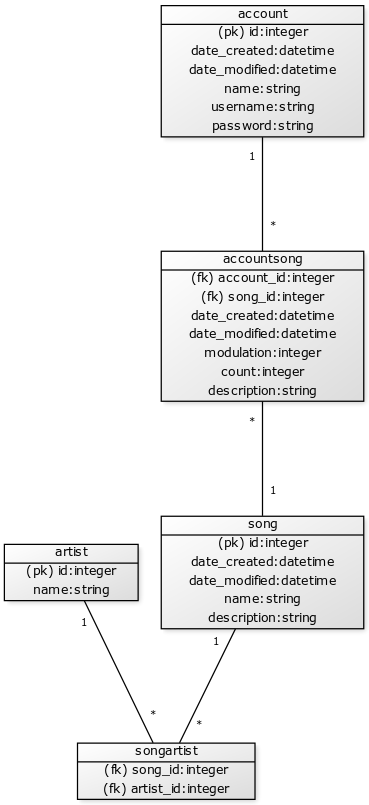
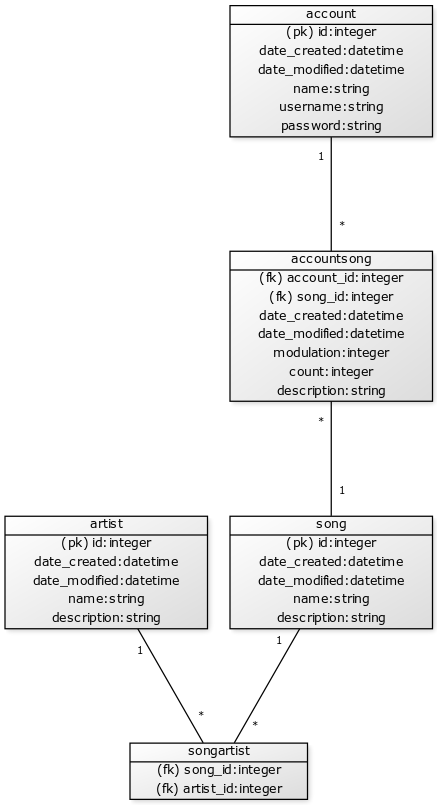
artist taulun lisäys tietokantaan, laulun lisäykseen mukaan artistin lisäys ja liittäminen

diff --git a/application/templates/songs/change.html b/application/templates/songs/change.html
@@ -4,13 +4,13 @@
 <form method="POST" action="{{ url_for('change_form', song_id=song.id) }}">
   <table>
       <tr>
-          <td>
-            {{ song.name }}
-          </td>
-          <td>
-            {{ song.description }}
-          </td>
-              </tr>
+        <td>
+          {{ song.name }}
+        </td>
+        <td>
+          {{ song.description }}
+        </td>
+      </tr>
       <tr>
 	      <td>
 	        {{ form.name.label }}
@@ -20,13 +20,21 @@
 	      </td>
       </tr>
       <tr>
-          <td>
-            {{ form.description.label}}
-          </td>
-          <td>
-            {{ form.description }}
-          </td>
-              </tr>
+        <td>
+          {{ form.description.label}}
+        </td>
+        <td>
+          {{ form.description }}
+        </td>
+      </tr>
+      <tr>
+        <td>
+          {{ form.artist.label}}
+        </td>
+        <td>
+          {{ form.artist }}
+        </td>
+      </tr>
       <tr>
 	      <td colspan="2">   
             <input type="submit" value="Save changes"/>

diff --git a/application/templates/songs/new.html b/application/templates/songs/new.html
@@ -5,14 +5,14 @@
   <table>
     <tr>
       <td>
-       {{ form.name.label }}
+       {{ form.songname.label }}
       </td>
       <td>
-       {{ form.name }}
+       {{ form.songname }}
       </td>
       <td>
           <ul>
-            {% for error in form.name.errors %}
+            {% for error in form.songname.errors %}
             <li>{{ error }}</li>
             {% endfor %}
           </ul>
@@ -26,7 +26,14 @@
           {{ form.description }}
         </td>
             </tr>
-
+            <tr>
+                <td>
+                  {{ form.artistname.label }}
+                </td>
+                <td>
+                  {{ form.artistname }}
+                </td>
+                    </tr>
     <tr>
       <td colspan="2">
         <input type="submit" value="Add a new song"/>

diff --git a/application/templates/songs/list.html b/application/templates/songs/list.html
@@ -8,7 +8,7 @@
     </tr>
     {% for song in songs %}
     <tr>
-      <td>{{ song.name }}</td>
+      <td>{{ song.songname }}</td>
       <td><a href="{{ url_for('songs_change_name', song_id=song.id) }}">Show</a>
       </td>
       <td>

diff --git a/application/songs/models.py b/application/songs/models.py
@@ -9,21 +9,28 @@ accountsongs =  db.Table('accountsongs',
     db.Column('account_id', db.Integer, db.ForeignKey('account.id'), primary_key=True)
 )
 
+artistsongs =  db.Table('artistsongs',
+    db.Column('song_id', db.Integer, db.ForeignKey('song.id'), primary_key=True),
+    db.Column('artist_id', db.Integer, db.ForeignKey('artist.id'), primary_key=True)
+)
+
+
 class Song(Base):
     # parent left
 
-    name = db.Column(db.String(144), nullable=False)
+    songname = db.Column(db.String(144), nullable=False)
     description = db.Column(db.String(1000), nullable=True)
 
     users = db.relationship('User', secondary=accountsongs, backref=db.backref('songs', lazy=True))
+    artists =  db.relationship('Artist', secondary=artistsongs, backref=db.backref('songs', lazy=True))
 
-    def __init__(self, name):
-        self.name = name
+    def __init__(self, songname):
+        self.songname = songname
 
     @staticmethod
     def find_songs_for_current_user():
 
-        stmt = text("SELECT Song.name, Song.description FROM Song"
+        stmt = text("SELECT Song.songname, Song.description FROM Song"
                     " LEFT JOIN accountsongs ON Song.id = accountsongs.song_id"
                     " WHERE accountsongs.account_id = :cu").params(cu=current_user.id)            
 
@@ -38,10 +45,10 @@ class Song(Base):
     @staticmethod
     def how_many_have_this():
 
-        stmt = text("SELECT Song.name, COUNT(*) AS howmany FROM accountsongs, Song, Account"
+        stmt = text("SELECT Song.songname, COUNT(*) AS howmany FROM accountsongs, Song, Account"
                     " WHERE Song.id = accountsongs.song_id"
                     " AND Account.id = accountsongs.account_id"
-                    " GROUP BY Song.name"
+                    " GROUP BY Song.songname"
                     )
         res = db.engine.execute(stmt)
 

diff --git a/application/songs/views.py b/application/songs/views.py
@@ -4,6 +4,7 @@ from flask_login import login_required, current_user
 from application import app, db
 from application.songs.models import Song
 from application.songs.forms import SongForm
+from application.artists.models import Artist
 
 @app.route("/songs", methods=["GET"])
 def songs_index():
@@ -28,7 +29,7 @@ def change_form(song_id):
     song = Song.query.get(song_id) 
     form = SongForm(obj=song) #the form will be prefilled with the song 
     
-    song.name = form.name.data
+    song.songname = form.songname.data
     song.description = form.description.data
     db.session().commit()
      
@@ -42,10 +43,21 @@ def songs_create():
     if not form.validate():
         return render_template("songs/new.html", form = form)
 
-    song = Song(form.name.data)
+    song = Song(form.songname.data)
     song.description = form.description.data
 
+    artist = Artist.query.filter_by(artistname=form.artistname.data).first()
+    if not artist:
+        
+        artist = Artist(form.artistname.data)
+
     db.session().add(song)
+    db.session().commit()
+
+    db.session().add(artist)
+    db.session().commit()
+    
+    song.artists.append(artist) # attach artist and song
     db.session().commit()
   
     return redirect(url_for("songs_index"))

diff --git a/application/songs/forms.py b/application/songs/forms.py
@@ -2,8 +2,9 @@ from flask_wtf import FlaskForm
 from wtforms import StringField, validators
 
 class SongForm(FlaskForm):
-    name = StringField("Song name", [validators.Length(min=1, max=144)])
+    songname = StringField("Song name", [validators.Length(min=1, max=144)])
     description = StringField("Song description", [validators.Length(max=999)])
+    artistname = StringField("Artist", [validators.Length(min=1, max=144)])
  
     class Meta:
         csrf = False

diff --git a/application/artists/models.py b/application/artists/models.py
@@ -1,0 +1,12 @@
+from application import db
+from application.models import Base
+from application.songs import models
+
+
+class Artist(Base):
+
+    artistname = db.Column(db.String(144), nullable=False)
+    description = db.Column(db.String(1000), nullable=True)
+    
+    def __init__(self, artistname):
+        self.artistname = artistname
